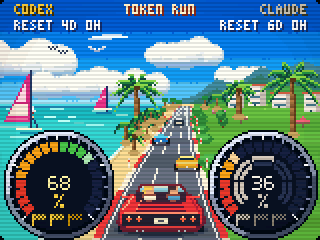
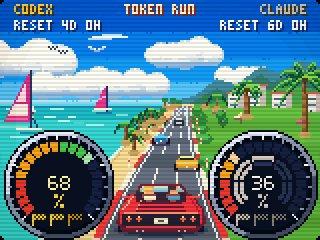
Give Token Run resort palms a slower layer of motion

Changed region(s): [[0.6875, 0.2625, 1.0, 0.5833], [0.3438, 0.2917, 0.5312, 0.525], [0.3438, 0.4375, 0.375, 0.4667]]

diff --git a/token_tv/board_drive.py b/token_tv/board_drive.py
@@ -1,7 +1,7 @@
 """Original coastal arcade scenery, drawn locally on a 160x120 console grid.
 
 Sea, beach and a three-lane bend share one horizon. Four stored road poses carry
-the advancing scenery; separate small sprites move cloud, water and gull. No game
+the advancing scenery; separate small sprites move resort palms and a gull. No game
 assets, live account data, wall-clock animation or new firmware are needed.
 """
 from functools import lru_cache
@@ -27,8 +27,8 @@ RED, WHITE = '#ef3939', '#fff3d8'
 ASPHALT = ('#555d6d', '#687184')
 
 
-# The slow cloud, water glints and gull are NOT in the picture the board stores: each is a transparent sprite that
-# the board moves a little (all at STEP_MS), so the sky is quietly alive. Their restoration boxes are disjoint, stay
+# The resort palms and gull are NOT in the picture the board stores: each is a transparent sprite that
+# the board moves a little (all at STEP_MS). Their restoration boxes are disjoint, stay
 # clear of the scoreboard (canvas rows 0-16) and of the road window, and every script starts at offset (0, 0).
 def _gull_frames():
     shapes = ('XX.....XX/.XXX.XXX./...XXX.../.........',
@@ -51,24 +51,19 @@ def _gull_frames():
 def ambient():
     """Ambient sprites: x/y in screen pixels, unfiltered RGBA frames and scripts."""
     out = []
-    layer = Image.new('RGBA', (W, H), (0, 0, 0, 0))
-    _cumulus(layer, 92, 29, 32, 13)
-    box = layer.getbbox()
-    cloud = layer.crop(box)
-    out.append({'name': 'cloud', 'x': box[0] * 2, 'y': box[1] * 2, 'frames': [cloud],
-                'script': [(0, 2 * round(4 * math.sin(2 * math.pi * k / 32)), 0) for k in range(32)]})
-    waves = []
-    for phase in range(PHASES):
-        wave = Image.new('RGBA', (22, 4), (0, 0, 0, 0))
-        wd = ImageDraw.Draw(wave)
-        for x, y, length in ((1, 0, 5), (13, 0, 3), (6, 2, 5), (16, 3, 4)):
-            offset = (phase + y) % 3
-            wd.line((x + offset, y, min(21, x + length + offset), y),
-                    fill='#baf9ee' if phase % 2 == y % 2 else '#65e2dd')
-        waves.append(wave)
-    out.append({'name': 'water', 'x': 21 * 2, 'y': 58 * 2, 'frames': waves,
-                'script': [(k // 4 % PHASES, 2 * round(2 * math.sin(2 * math.pi * k / 16)), 0)
-                           for k in range(16)]})
+    # One tiny texture per palm keeps all four road poses and the original
+    # 120 ms cadence. The nearer resort palm drifts further, but both take five
+    # road cycles to follow the bend and return without teleporting. Clouds
+    # and glints now belong to the backdrop to stay within four sprite slots.
+    for name, x, base, size, reach in (('palm-far', 123, 58, 15, 2),
+                                      ('palm-near', 152, 67, 29, 6)):
+        layer = Image.new('RGBA', (W, H), (0, 0, 0, 0))
+        _palm(ImageDraw.Draw(layer), x, base, size)
+        box = layer.getbbox()
+        out.append({'name': name, 'x': box[0] * 2, 'y': box[1] * 2,
+                    'frames': [layer.crop(box)],
+                    'script': [(0, 2 * round(reach * .5 * (1 - math.cos(2 * math.pi * k / 20))), 0)
+                               for k in range(20)]})
     out.append({'name': 'gull', 'x': 44 * 2, 'y': 23 * 2, 'frames': _gull_frames(),
                 'script': [((0, 1, 2, 1)[k % 4], 2 * round(6 * math.sin(2 * math.pi * k / 32)),
                             4 * round(.5 * (1 - math.cos(2 * math.pi * k / 32)))) for k in range(32)]})
@@ -189,6 +184,7 @@ def _backdrop():
     _bands(d, SKY, 0, HORIZON, 0.0, seed=4)
     for cx, cy, w, h in ((13, 34, 34, 18), (52, 44, 62, 12), (124, 40, 24, 9)):
         _cumulus(im, cx, cy, w, h)
+    _cumulus(im, 92, 29, 32, 13)
     _streak(d, 44, 18, 22)
     # Only the right-hand headland rises above the water. There is no mountain
     # wall behind a strip of sea suspended above a second ground horizon.
@@ -212,6 +208,10 @@ def _backdrop():
     for x, y, width in ((3, 54, 9), (25, 54, 6), (46, 55, 7), (58, 57, 5),
                         (0, 63, 13), (43, 62, 8), (5, 68, 14), (35, 69, 6)):
         d.line((x, y, min(x + width, round(_shore(y - HORIZON)) - 4), y), fill='#9af2e4')
+    for x, y, length in ((1, 0, 5), (13, 0, 3), (6, 2, 5), (16, 3, 4)):
+        offset = y % 3
+        d.line((21 + x + offset, 58 + y, 21 + min(21, x + length + offset), 58 + y),
+               fill='#baf9ee' if y % 2 == 0 else '#65e2dd')
     _boat(d, 14, 56, 2)
     # A tall foreground windsurf sail and a smaller distant one ground the
     # left side in the sea. Palms stand on the sand, never in open water.
@@ -241,9 +241,8 @@ def _backdrop():
         d.line((x, y - 4, x, y), fill='#736447')
         d.polygon([(x - 3, y - 3), (x, y - 5), (x + 3, y - 3)], fill=shade)
         d.line((x - 3, y - 2, x + 3, y - 2), fill='#9c635b')
-    for x, base, size in ((68, 65, 23), (146, 67, 29), (119, 58, 15)):
-        _palm(d, x, base, size)
-    # Far palms repeat toward the vanishing point; foreground ones move.
+    # No fixed palm over the left-hand sea. The two large resort palms on
+    # the right are separate slow layers; small horizon palms remain distant.
     for x, base, size in ((82, 54, 4), (86, 53, 3), (89, 53, 2), (102, 53, 4), (108, 54, 6)):
         _palm(d, x, base, size)
     for x, y in ((24, 23), (29, 25)):

diff --git a/tests/test_board_drive.py b/tests/test_board_drive.py
@@ -38,11 +38,32 @@ def compose(background, spec, step):
             y = sprite['y'] + dy + index // sprite['w'] * 2
             for yy in (y, y + 1):
                 for xx in (x, x + 1):
-                    words[yy * 320 + xx] = word
+                    if 0 <= xx < 320 and 0 <= yy < 240:
+                        words[yy * 320 + xx] = word
     return words
 
 
 class DrivingSceneTests(unittest.TestCase):
+    def test_no_fixed_palm_crown_hangs_over_the_left_hand_sea(self):
+        image = board_drive.scene(0)
+        # Sky above the windsurf sails: the old floating palm occupied this
+        # patch. Keep the green headland and roadside trees elsewhere.
+        crown = image.crop((54, 33, 78, 46))
+        pixels = [crown.getpixel((x, y)) for y in range(crown.height) for x in range(crown.width)]
+        green = [p for p in pixels if p[1] > p[0] * 1.2 and p[1] > p[2] * 1.1]
+        self.assertEqual(green, [])
+
+    def test_resort_palms_move_more_slowly_than_the_road_without_a_loop_jump(self):
+        palms = [s for s in board_drive.ambient() if s['name'].startswith('palm')]
+        self.assertEqual(len(palms), 2)
+        for palm in palms:
+            offsets = [(dx, dy) for _, dx, dy in palm['script']]
+            self.assertGreaterEqual(len(set(offsets)), 3)
+            self.assertGreaterEqual(len(offsets), board_drive.PHASES * 5)
+            # At most one console pixel per tick, including the loop seam.
+            for before, after in zip(offsets, offsets[1:] + offsets[:1]):
+                self.assertLessEqual(math.dist(before, after), 2)
+
     def test_the_sea_continues_below_the_road_horizon_instead_of_floating_above_it(self):
         # The old bay ended at the vanishing point and became sand underneath,
         # so it looked like a shelf of water in the sky. The coast must reach
@@ -94,6 +115,13 @@ class DrivingSceneTests(unittest.TestCase):
                             x = sprite['x'] + dx + i % sprite['w'] * 2
                             y = sprite['y'] + dy + i // sprite['w'] * 2
                             for p in ((x, y), (x + 1, y), (x, y + 1), (x + 1, y + 1)):
+                                # Resort palms may pass behind the right bezel;
+                                # the native engine clips them at the panel edge.
+                                if p[0] >= 320:
+                                    self.assertEqual(sprite['x'], max(s['x'] for s in spec['sprites']))
+                                    self.assertLess(p[0], 320 + max(dx for _, dx, _ in sprite['script']))
+                                    self.assertTrue(36 <= p[1] < 240)
+                                    continue
                                 self.assertTrue(0 <= p[0] < 320 and (number or 2 * board_drive.WINDOW[1] <= p[1] < 240))
                                 # the dial is the whole disc, rim included, on the 160x120 grid
                                 self.assertTrue(all(math.dist((p[0] // 2, p[1] // 2), centre) > RADIUS
@@ -141,7 +169,7 @@ class DrivingSceneTests(unittest.TestCase):
         self.assertEqual(image.getpixel((0, 0)), board_dials.BEZEL)                  # rounded screen corner
         self.assertEqual(image.getpixel((319, 239)), board_dials.BEZEL)
 
-    def test_the_slow_sky_things_move_a_little_inside_their_own_boxes(self):
+    def test_slow_palms_and_gull_keep_separate_restore_boxes(self):
         with patch('time.time', return_value=NOW):
             background, payload = render_dials(sample(), animated=True)
             static = render_dials(sample())
@@ -162,7 +190,7 @@ class DrivingSceneTests(unittest.TestCase):
         for i, a in enumerate(boxes):
             for b in boxes[i + 1:]:
                 self.assertTrue(a[2] <= b[0] or b[2] <= a[0] or a[3] <= b[1] or b[3] <= a[1], (a, b))
-        # The stored picture has none of the sky things (they would be left behind as ghosts); a board that cannot
+        # The stored picture has none of the moving palms/gull (they would be left behind as ghosts); a board that cannot
         # animate gets them in the first pose.
         changed = ImageChops.difference(background, static).getbbox()
         self.assertIsNotNone(changed)

diff --git a/token_tv/board_dials.py b/token_tv/board_dials.py
@@ -6,7 +6,7 @@ are two round dials set into the bottom corners, like an arcade dashboard:
 
 - the ring of twenty LED blocks is the quota left of the week (the last lit block is a paler tint of its colour, like a
   cursor), and the blocks change colour with their place on the ring like an arcade rev counter: red up to 20 %, amber up to 50 %,
-  green above (the user, 2026-10-19; the same limits as the VERSUS life bars). Empty blocks are a plain dark navy: a faint zone tint made the level hard to see at a glance;
+  green above (Tony, 2026-10-19; the same limits as the VERSUS life bars). Empty blocks are a plain dark navy: a faint zone tint made the level hard to see at a glance;
 - three pixel hearts in the gap at the foot of each dial are the saved resets, without a number;
 - Claude's five-hour session is two thin rings of five parts inside its dial (quota left outside, time left
   inside, with no marks or numbers; nothing at all while the session is unknown, so unknown never reads as empty);
@@ -239,7 +239,7 @@ def _crt(image, origin=(0, 0)):
 
 @lru_cache(maxsize=1)
 def _sprites():
-    """The road window in its four poses, with every pixel of the dials left transparent, then the slow sky things."""
+    """Four road poses, with every dial pixel left transparent, then the slow palms and gull."""
     x0, y0, x1, y1 = board_drive.WINDOW
     poses = []
     for phase in range(board_drive.PHASES):
@@ -261,7 +261,7 @@ def _sprites():
 
 def render_dials(snapshot, animated=False):
     canvas = board_drive.scene(0).copy()
-    if not animated:                                        # a board without ANIM keeps the first pose of the sky things
+    if not animated:                                        # a board without ANIM keeps the first pose of palms and gull
         for thing in board_drive.ambient():
             frame, dx, dy = thing['script'][0]
             canvas.paste(thing['frames'][frame], ((thing['x'] + dx) // K, (thing['y'] + dy) // K), thing['frames'][frame])

diff --git a/tests/test_firmware_anim.py b/tests/test_firmware_anim.py
@@ -1,5 +1,6 @@
 """The firmware's scene-animation engine, run on the PC against a simulated board (needs g++)."""
 import copy
+import math
 import shutil
 import struct
 import subprocess
@@ -208,7 +209,7 @@ class AnimationEngineTests(unittest.TestCase):
                 spec = board_anim.decode(payload)
                 background = list(struct.unpack('<76800H', rgb565_frame(image)[8:]))
                 capture = spec['sprites'][0]['step_ms']
-                steps = max(len(sprite['script']) for sprite in spec['sprites']) * 2     # two cycles of the slowest
+                steps = math.lcm(*(len(sprite['script']) for sprite in spec['sprites'])) * 2  # two complete joint cycles
                 out = self.run_engine(payload, capture * steps, image=image, capture_ms=capture)
                 for step in range(steps):
                     got = struct.unpack('<76800H', (out / f'screen_{step}.bin').read_bytes())

diff --git a/scripts/render_animations.py b/scripts/render_animations.py
@@ -116,7 +116,7 @@ def main():
                 # Sample each scene on its native tick, including complete surf/UFO cycles.
                 duration = {'code-forge': 140, 'dials': 120, 'surf': 150,
                             'arcade': 160, 'cockpit': 140}.get(name, 100)
-                total = {'code-forge': 22400, 'dials': 7680, 'surf': 9600,
+                total = {'code-forge': 22400, 'dials': 19200, 'surf': 9600,
                          'arcade': 15360, 'cockpit': 8960}.get(
                              name, 6400 if kind==b'WAVE' else 8000)
                 result = subprocess.run([str(engine),str(path),str(folder),str(total),str(duration)],capture_output=True,text=True)

diff --git a/docs/board-run.md b/docs/board-run.md
@@ -25,8 +25,12 @@ Unknown usage stays unknown.
 
 The road, kerbs, lane marks, palms and reflector posts advance in perspective.
 Three cars hold their lanes ahead, while the convertible settles slightly on
-its suspension. A cloud drifts, a gull flaps and water glints move beside the
-beach. The existing gentle CRT treatment and hard 2×2 pixels complete the look.
+its suspension. The two large resort palms on the right drift gently along the
+bend, taking five road cycles to move out and return without a jump. The nearer
+palm travels further than its distant neighbor. The fixed palm above the left
+sea is gone, leaving the sails and coastline clear. A gull still flaps overhead;
+clouds and water glints keep their appearance in the static backdrop. The
+existing gentle CRT treatment and hard 2×2 pixels complete the look.
 
 ## Try it locally
 
@@ -40,10 +44,11 @@ python scripts/render_animations.py --out preview
 
 Open `preview/dials.png` or `preview/dials.gif`. The animated preview runs the
 actual firmware engine locally and needs `g++`; it doesn't contact an account
-or a display. Its 120 ms sampling matches the stored scene's native cadence.
+or a display. Its 120 ms sampling matches the stored scene's native cadence;
+the GIF spans the complete 19.2-second joint loop of the road, palms and gull.
 
 On compatible firmware, four sprites animate entirely on the board. The scene
-uses 39,568 bytes of its 40,000-byte animation budget and a 193,184-byte complete
+uses 39,984 bytes of its 40,000-byte animation budget and a 193,600-byte complete
 page. No continuous frame streaming or new firmware is required for this update.
 The fallback for a display without animation support is the first complete pose.
 
